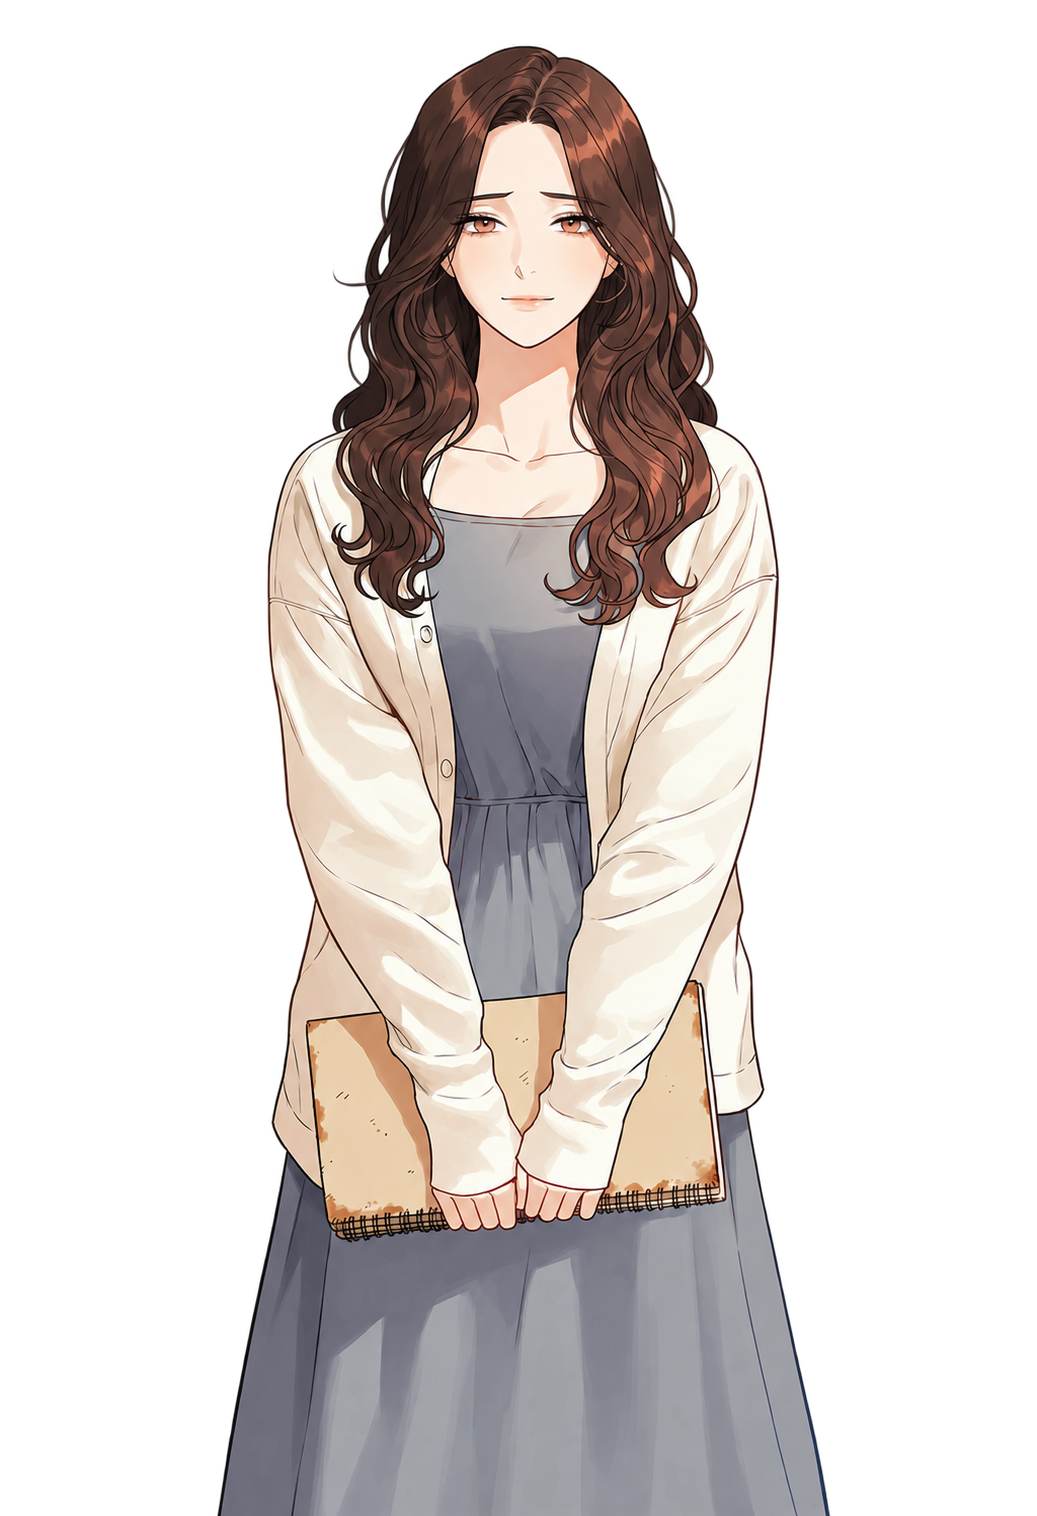
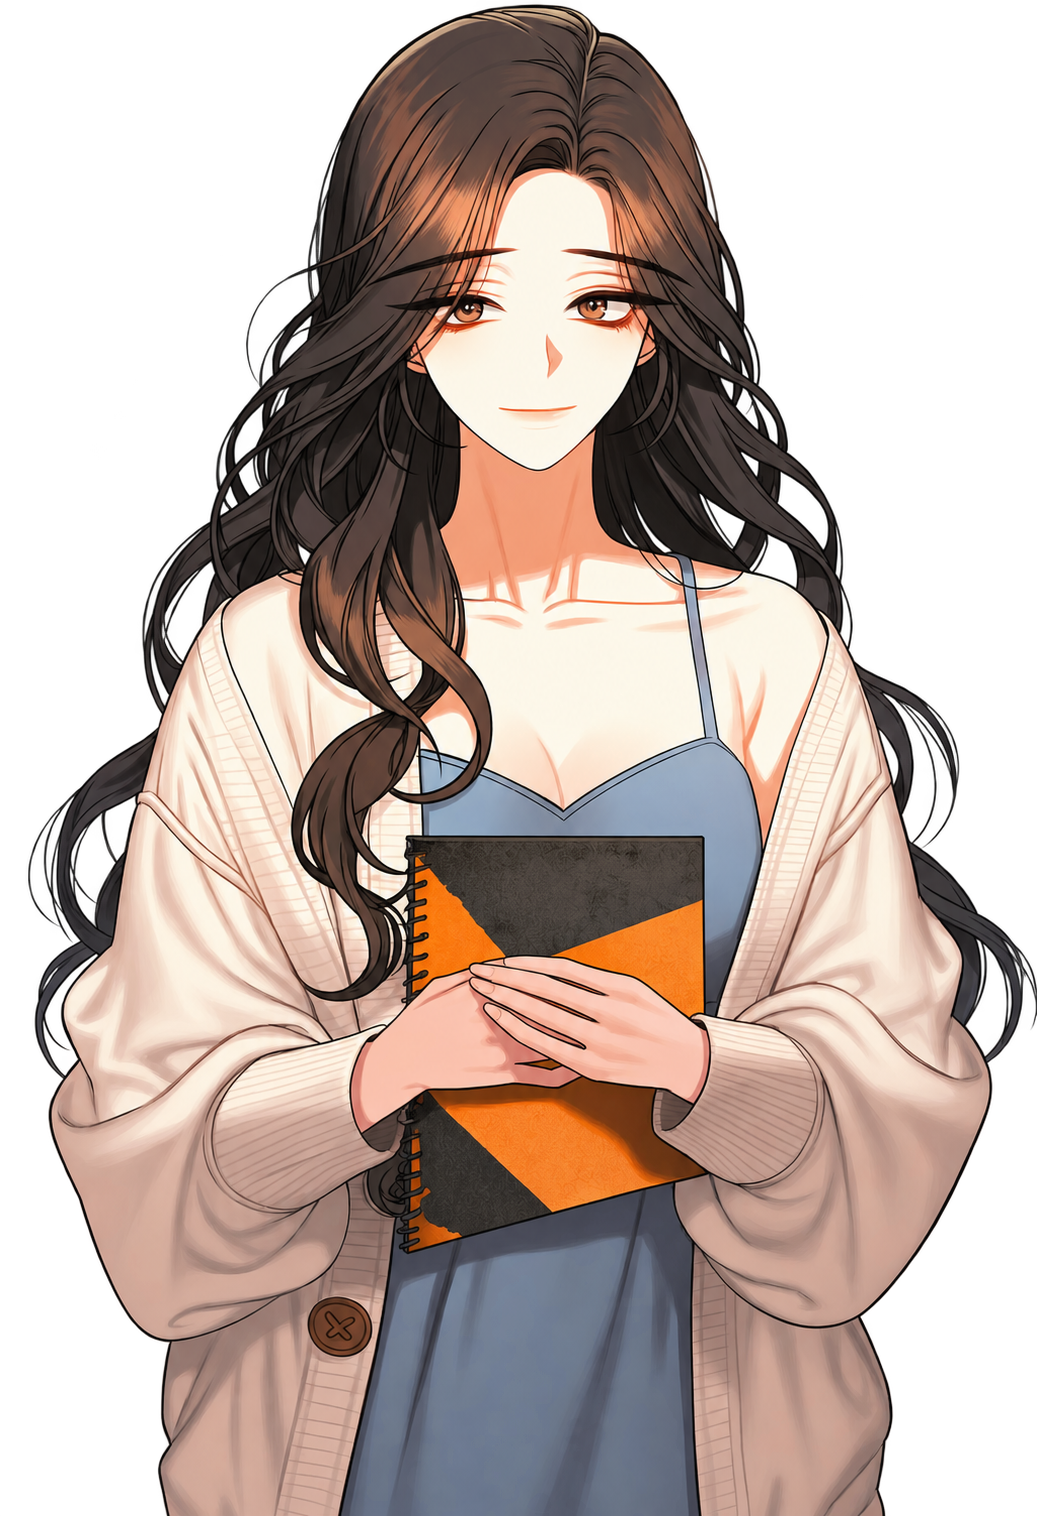
Replace Hwayeong half-body portraits with new transparent artwork

diff --git a/game.js b/game.js
@@ -12,9 +12,9 @@
   function freshState(){return{loc:'plaza',trust:0,traces:{},memory:false,decoded:false,unlocked:{plaza:true,house:false,barrier:false},decisions:{barrier:null,confront:null},tab:'traces'};}
   let state=freshState();
   const HWAYEONG_PORTRAITS={
-    normal:'./assets/characters/화영(일반).png?v=9',
-    anxious:'./assets/characters/화영(불안).png?v=9',
-    grateful:'./assets/characters/화영(감사).png?v=9'
+    normal:'./assets/characters/화영(일반).png?v=12',
+    anxious:'./assets/characters/화영(불안).png?v=12',
+    grateful:'./assets/characters/화영(감사).png?v=12'
   };
   const portraitCache=new Map();
   const portraitLoads=new Map();

diff --git a/index.html b/index.html
@@ -38,6 +38,6 @@
     <div class="memory-cg-footer"><div><p class="eyebrow">MEMORY 01</p><h2 id="memoryCGTitle">보지 못한 풍경</h2><blockquote id="memoryCGQuote">“본 적은 없는데… 기억나요.”</blockquote></div><button id="closeMemoryCG" type="button" class="btn primary" autofocus>게임으로 돌아가기</button></div>
     <p id="memoryCGStatus" class="cg-status" role="status"></p>
   </dialog>
-  <script src="./game.js?v=11"></script>
+  <script src="./game.js?v=12"></script>
 </body>
 </html>
